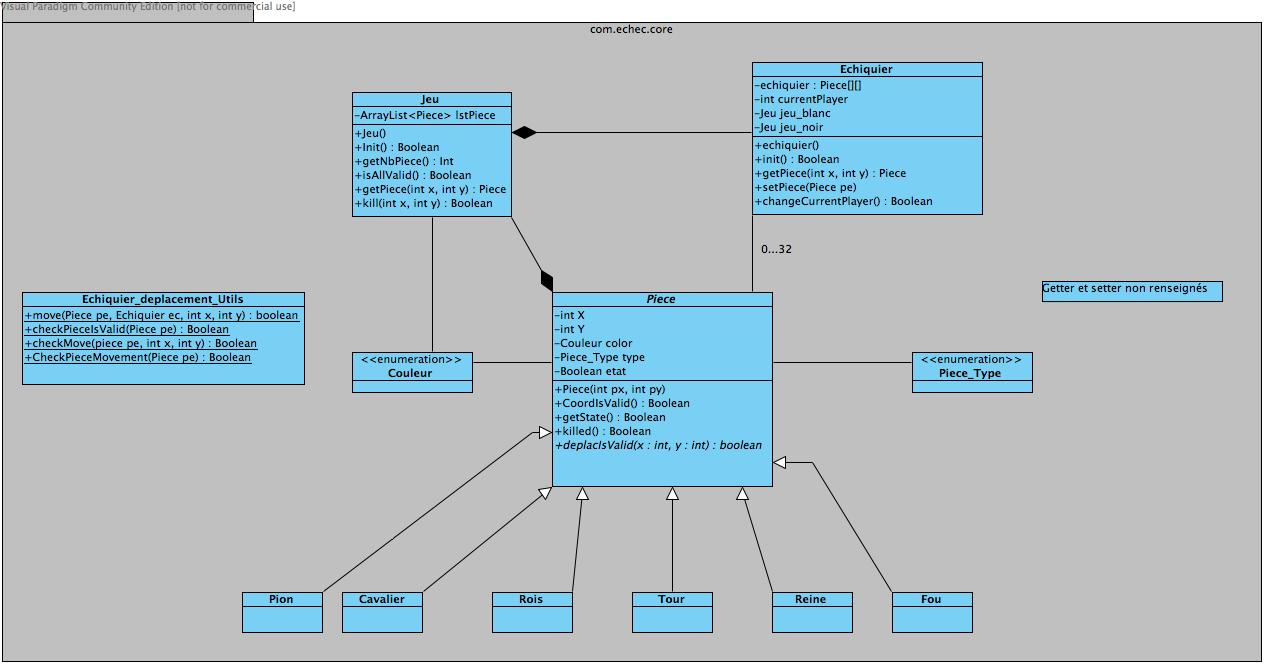
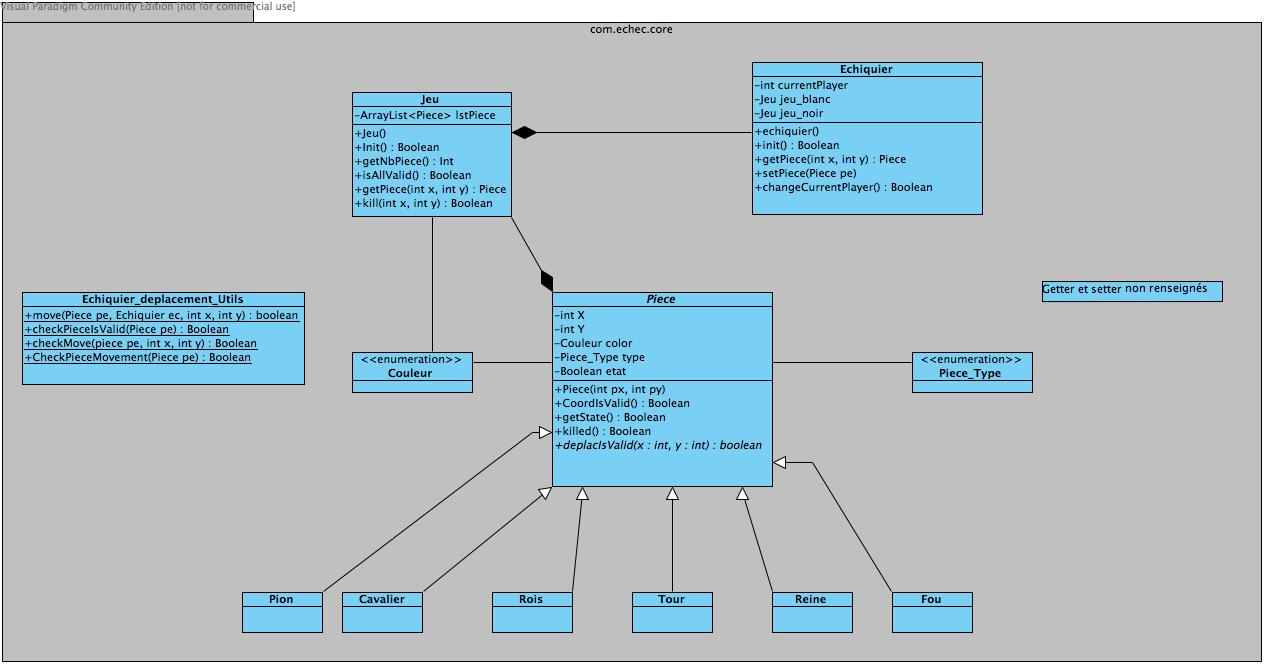
mes classes + diagrammes

Changed region(s): [[0.5853, 0.1201, 0.7701, 0.3303], [0.8318, 0.4204, 0.8934, 0.4505]]

diff --git a/src/com/echec/core/Jeu.java b/src/com/echec/core/Jeu.java
@@ -1,7 +1,23 @@
 package com.echec.core;
 
+import sun.reflect.generics.reflectiveObjects.NotImplementedException;
+
+import java.util.ArrayList;
+
 /**
  * Created by arthurveys on 16/06/2014.
  */
 public class Jeu {
+
+    public ArrayList<Piece> lstpiece;
+
+    public Jeu() {
+        this.lstpiece = new ArrayList<Piece>();
+        this.init();
+    }
+
+    private boolean init() throws NotImplementedException{
+        return false;
+    }
+    
 }

diff --git a/src/com/echec/core/Config.java b/src/com/echec/core/Config.java
@@ -3,7 +3,8 @@ package com.echec.core;
 /**
  * Created by arthurveys on 16/06/2014.
  */
-public interface Echiquier_deplacement_Utils {
+public class Config {
 
+    public static int taille=8;
 
 }
